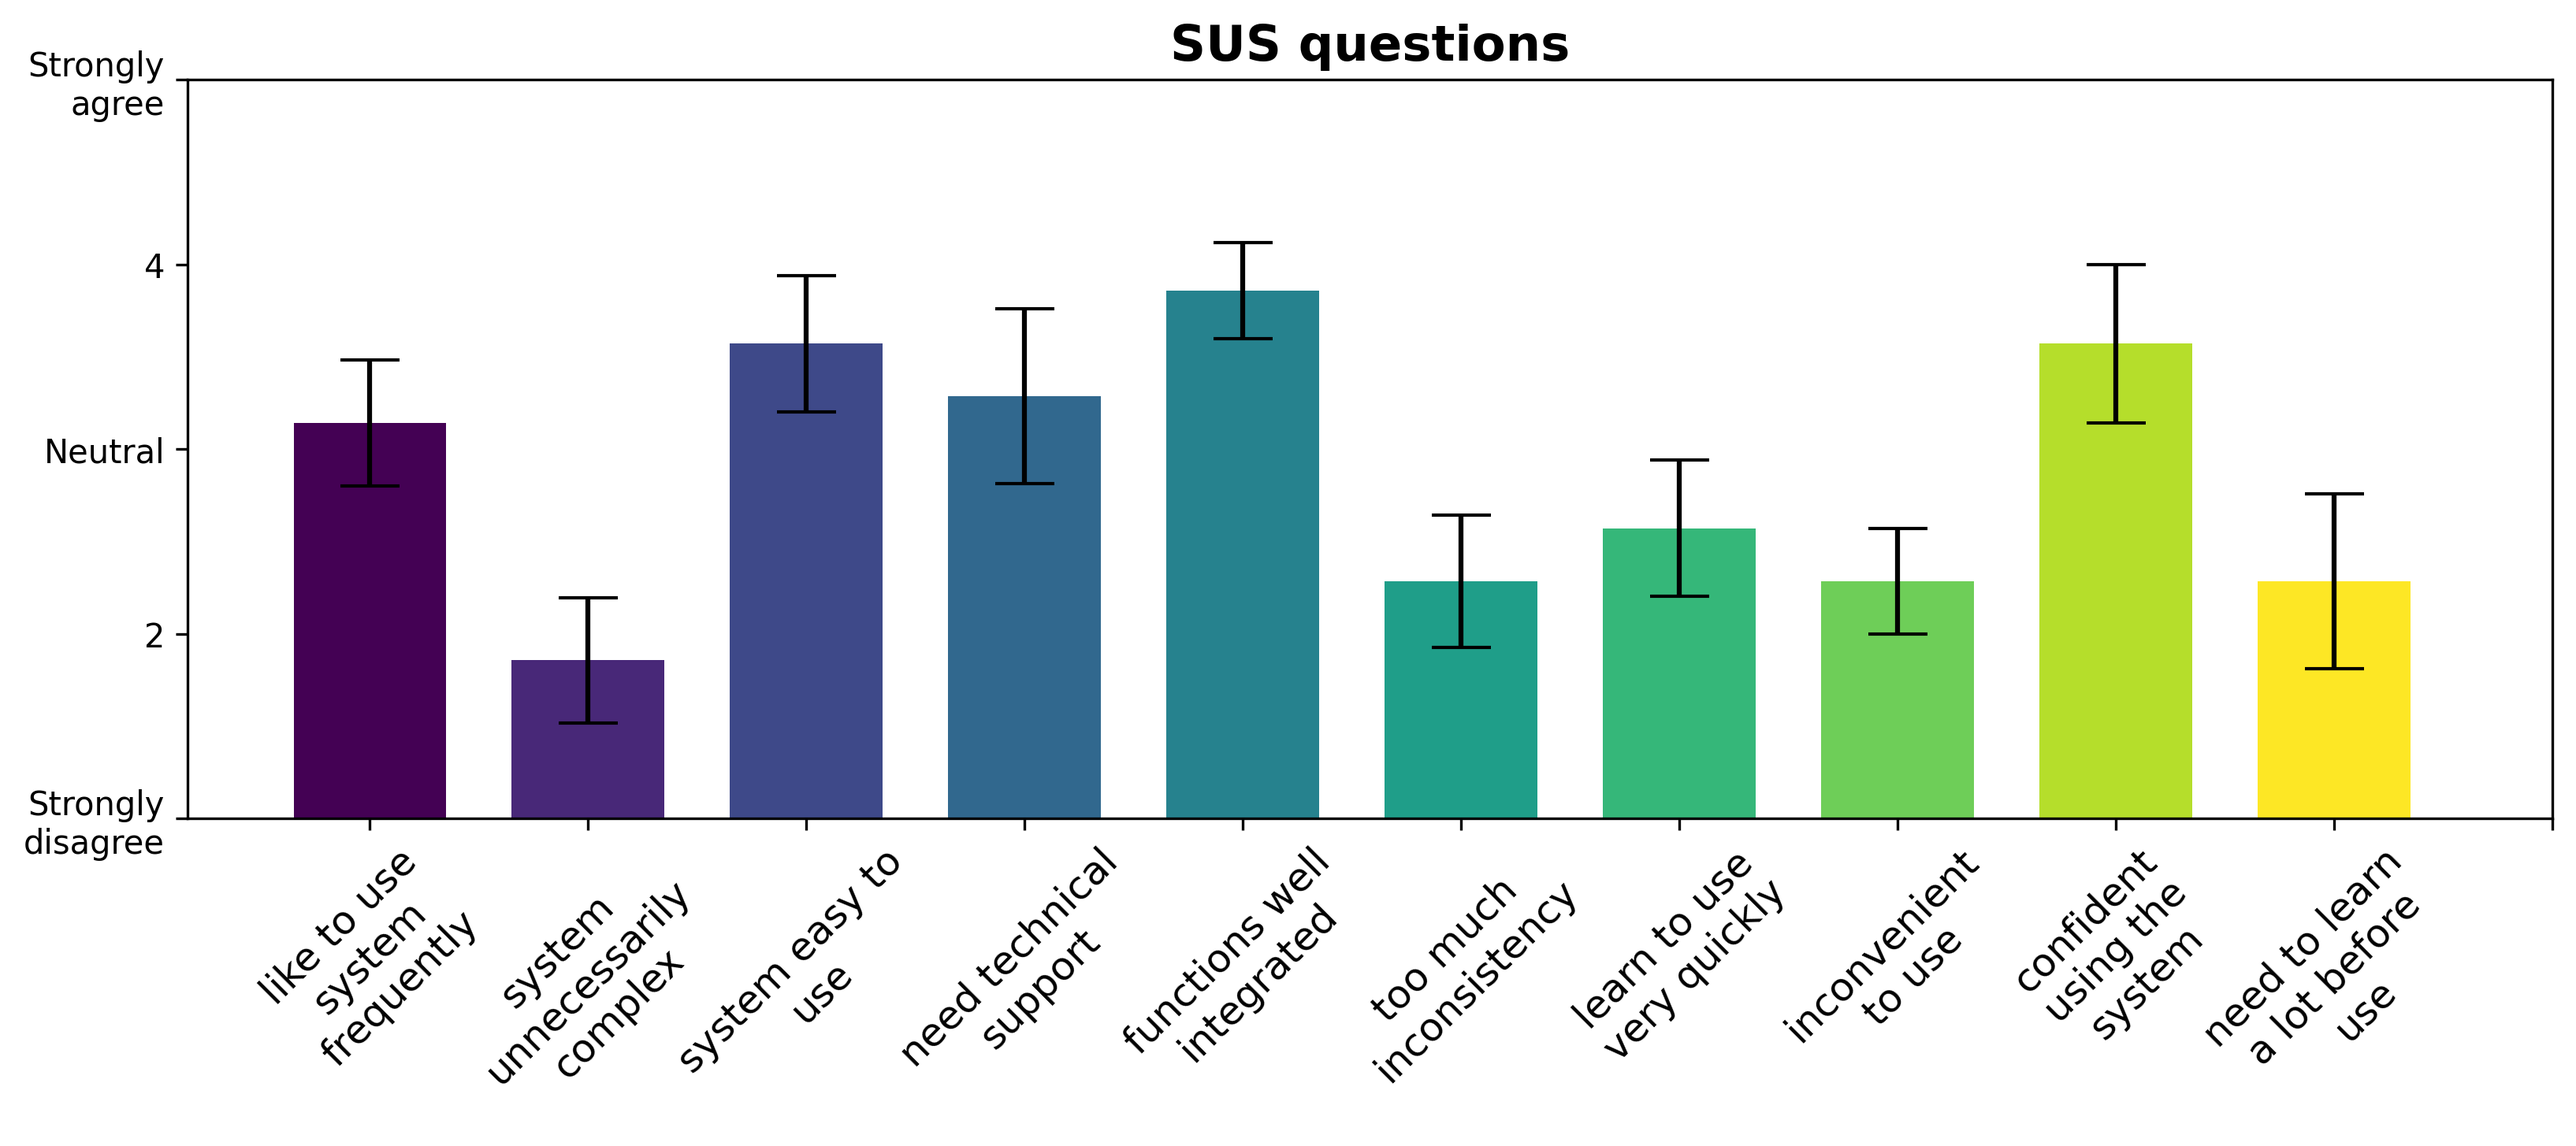
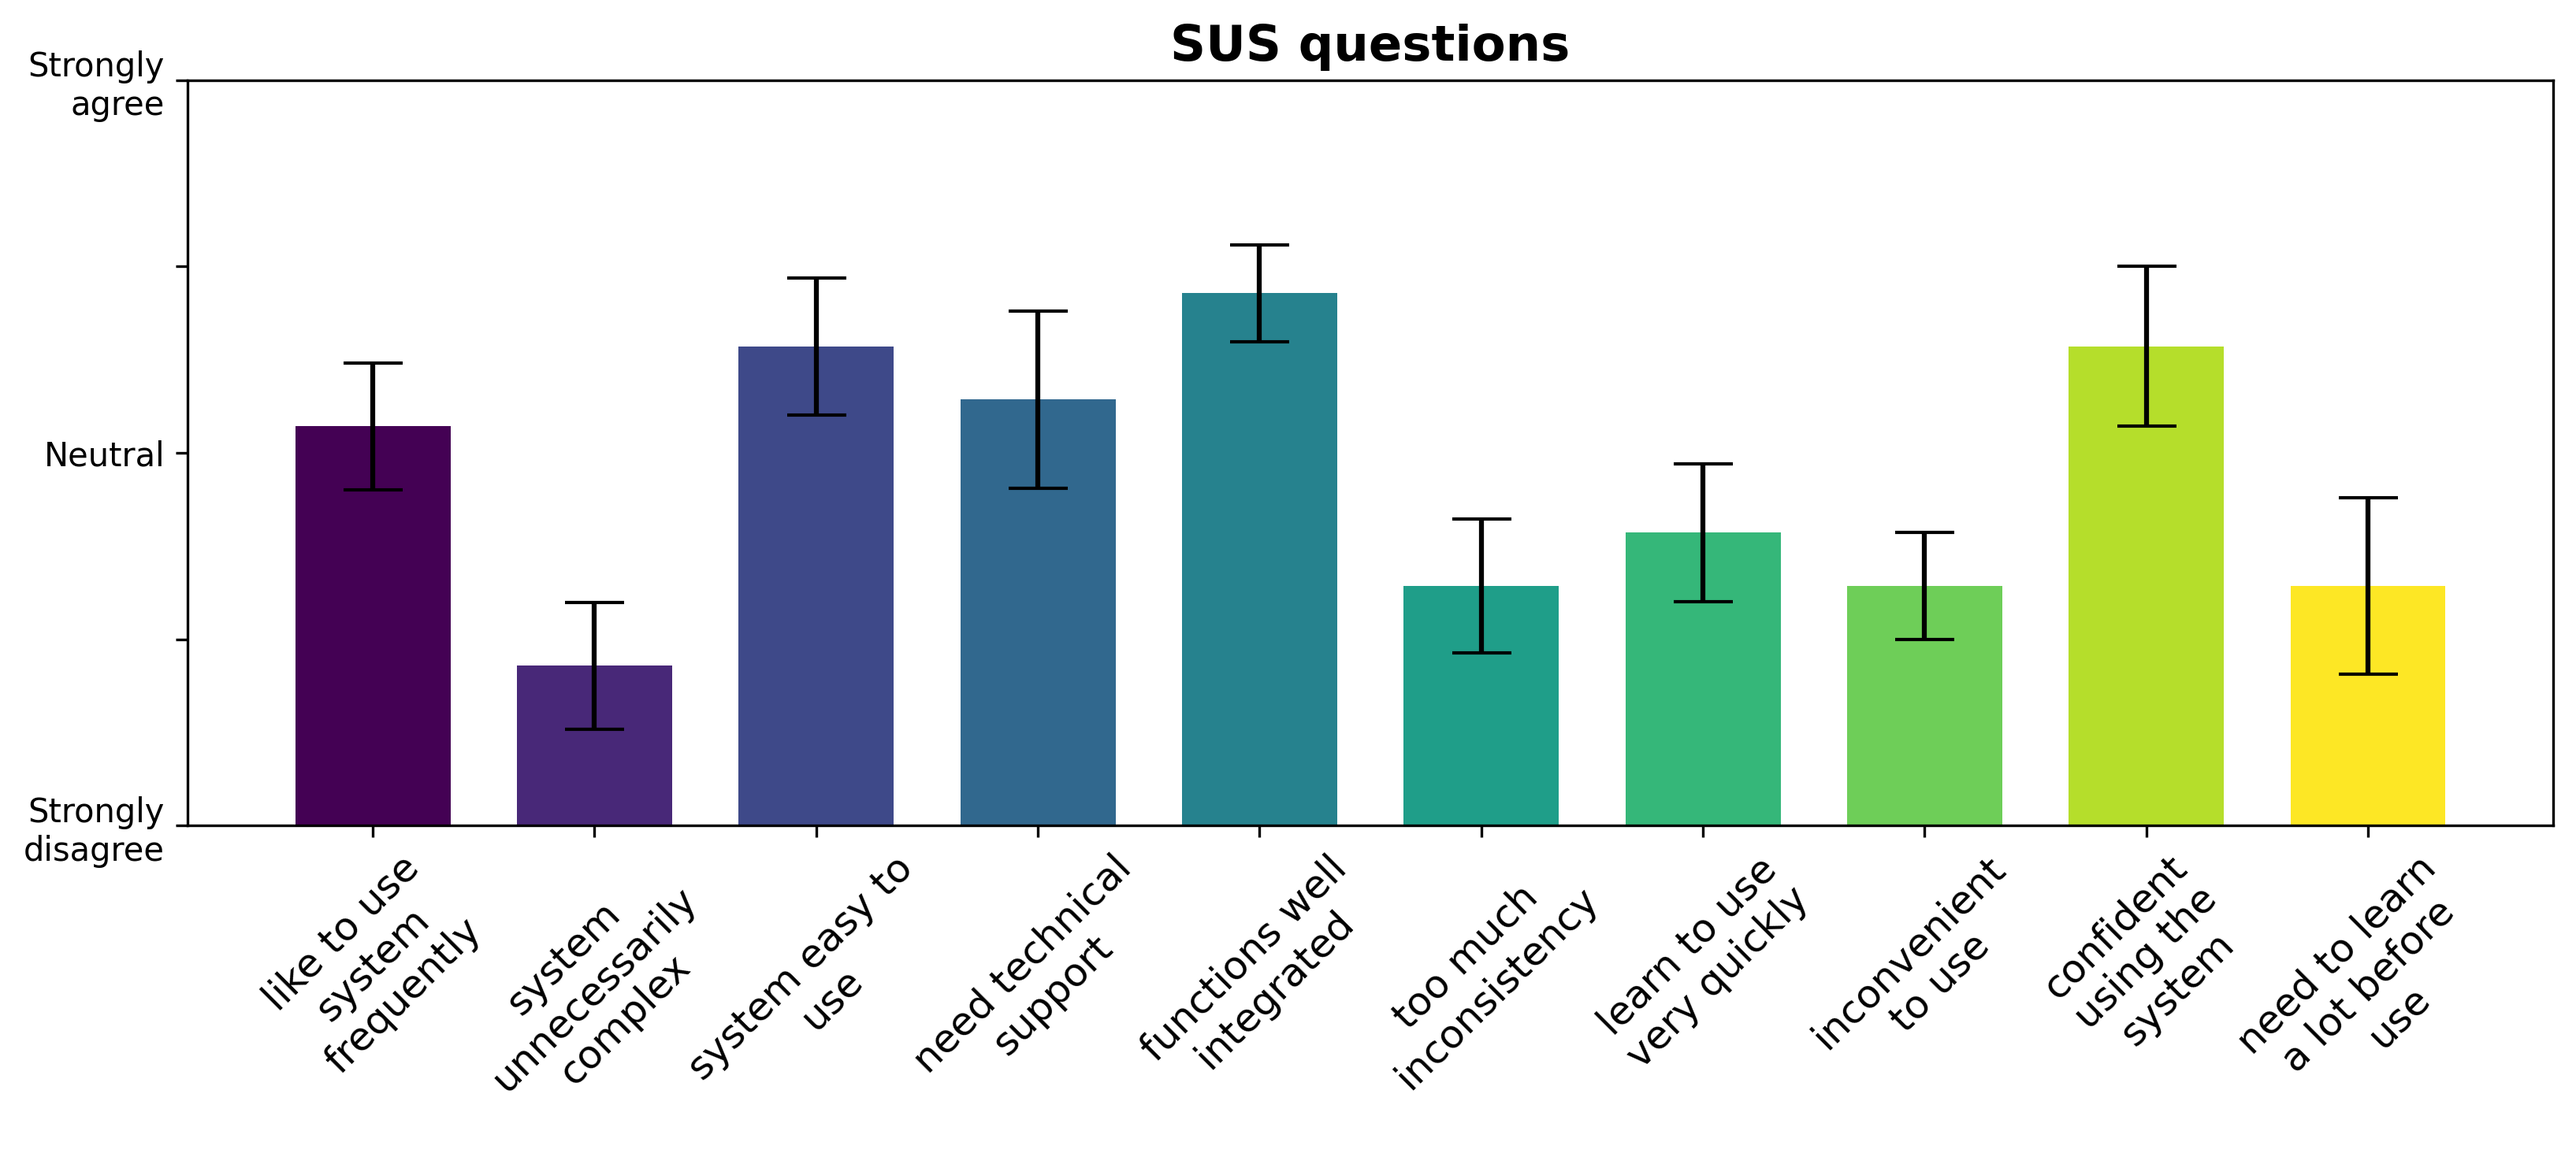
improved plot of SUS scale

diff --git a/SUS/sus.py b/SUS/sus.py
@@ -98,11 +98,11 @@ ax.bar(ind, results, width=0.7, yerr=err,  color=cmap.colors, ecolor='black', ca
 sus_xlabels = ['like to use system frequently', 'system unnecessarily complex', 'system easy to use', 'need technical support', 'functions well integrated', 'too much inconsistency', 'learn to use very quickly', 'inconvenient to use', 'confident using the system', 'need to learn a lot before use']
 sus_xlabels = [ '\n'.join(wrap(l, 14)) for l in sus_xlabels ]
 #sus_xlabels = [ label.replace(' ', '\n') for label in sus_xlabels]
-ax.set_xticks([0, 1, 2, 3, 4, 5, 6, 7, 8, 9, 10]) 
+ax.set_xticks([0, 1, 2, 3, 4, 5, 6, 7, 8, 9]) 
 ax.set_xticklabels(sus_xlabels, fontsize=12, rotation=45)
 ax.set_ylim([1, 5])
 ax.set_yticks([1, 2, 3, 4, 5]) 
-sus_ylabels = ['Strongly disagree', '2', 'Neutral', '4', 'Strongly agree']
+sus_ylabels = ['Strongly disagree', '', 'Neutral', '', 'Strongly agree']
 sus_ylabels = [ '\n'.join(wrap(l, 10)) for l in sus_ylabels ]
 ax.set_yticklabels(sus_ylabels)
 #ax.set_yticklabels(['0', 'Strongly disagree', '2', 'Neutral', '4', 'Strongly agree'])
